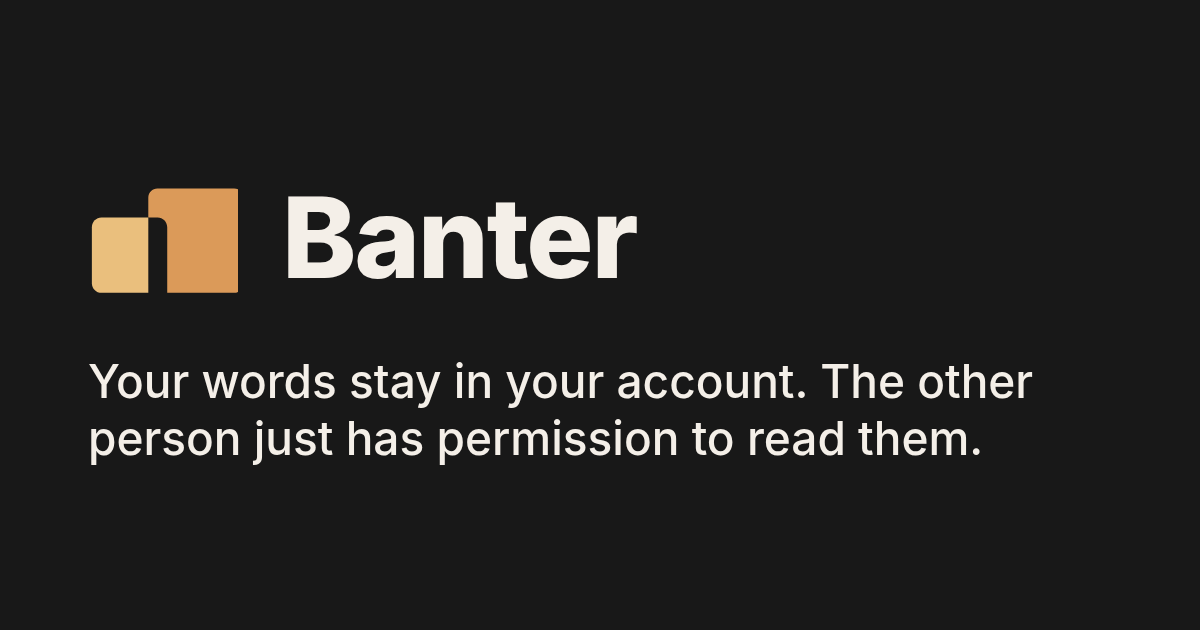
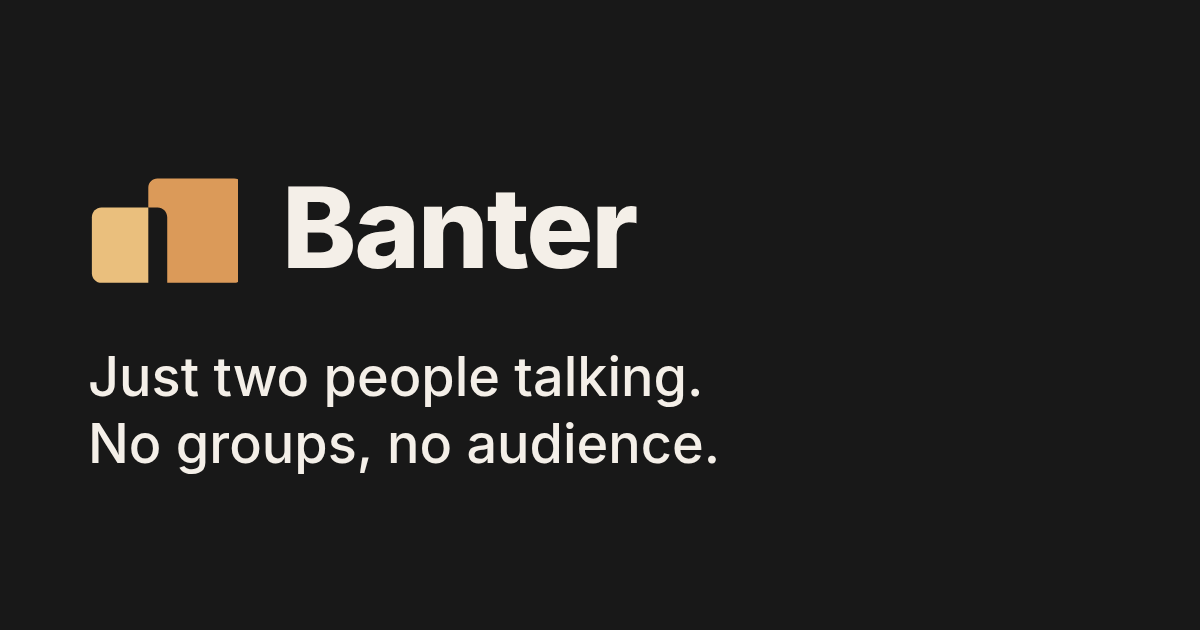
Shorten the share line

diff --git a/index.html b/index.html
@@ -5,14 +5,14 @@
     <link rel="icon" type="image/svg+xml" href="/favicon.svg" />
     <meta name="viewport" content="width=device-width, initial-scale=1.0" />
     <meta name="theme-color" content="#181818" />
-    <meta name="description" content="Your words stay in your account. The other person just has permission to read them." />
+    <meta name="description" content="Just two people talking. No groups, no audience." />
     <meta property="og:type" content="website" />
     <meta property="og:title" content="Banter" />
-    <meta property="og:description" content="Your words stay in your account. The other person just has permission to read them." />
+    <meta property="og:description" content="Just two people talking. No groups, no audience." />
     <meta property="og:image" content="https://bzr-sys.github.io/banter/og.png" />
     <meta property="og:image:width" content="1200" />
     <meta property="og:image:height" content="630" />
-    <meta property="og:image:alt" content="Banter: Your words stay in your account. The other person just has permission to read them." />
+    <meta property="og:image:alt" content="Banter: Just two people talking. No groups, no audience." />
     <meta name="twitter:card" content="summary_large_image" />
     <title>Banter</title>
   </head>
